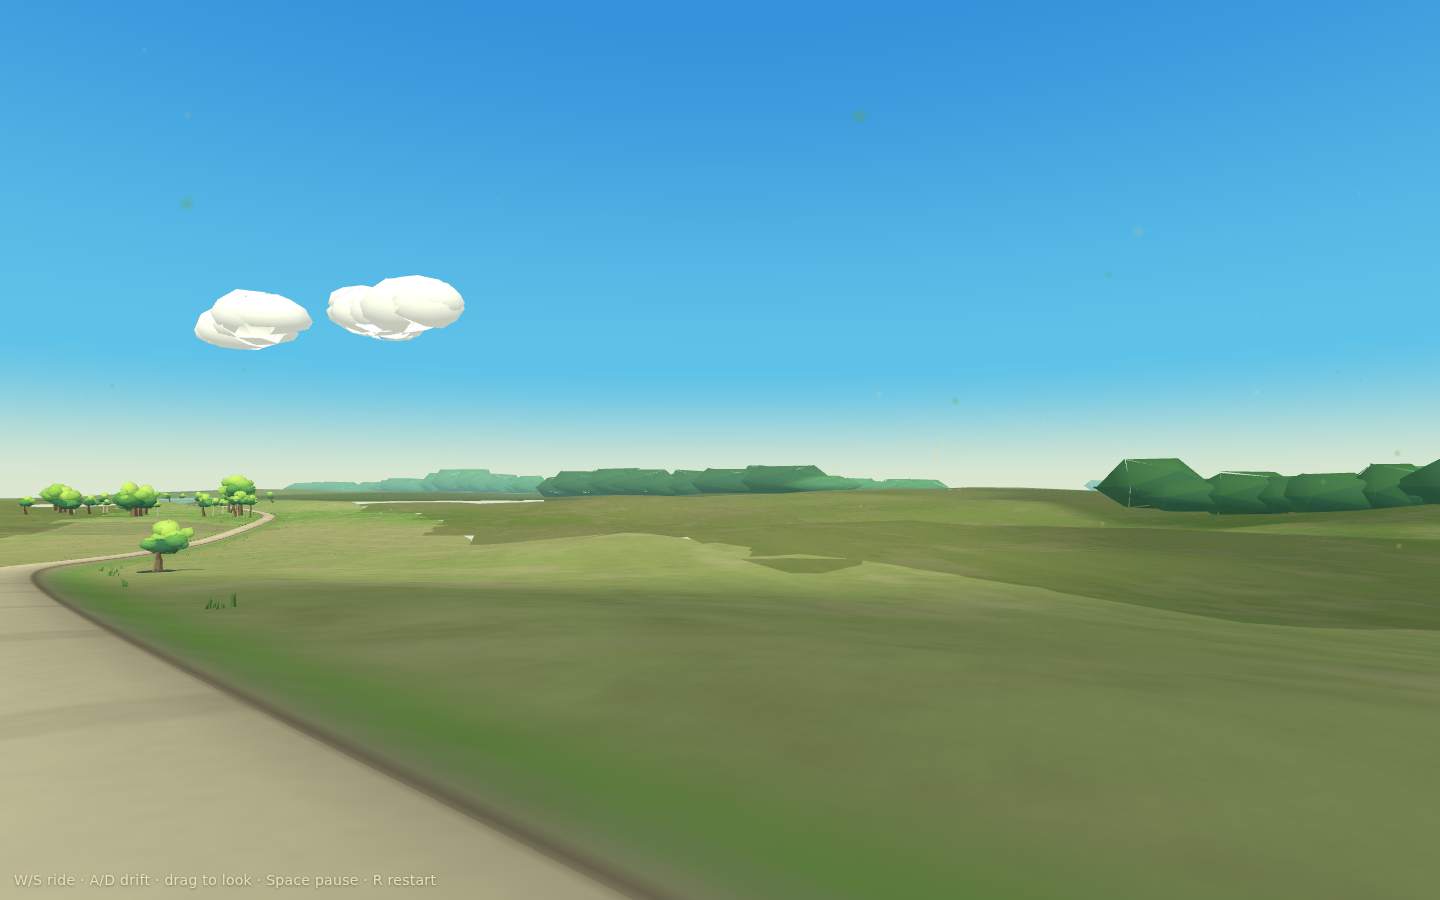
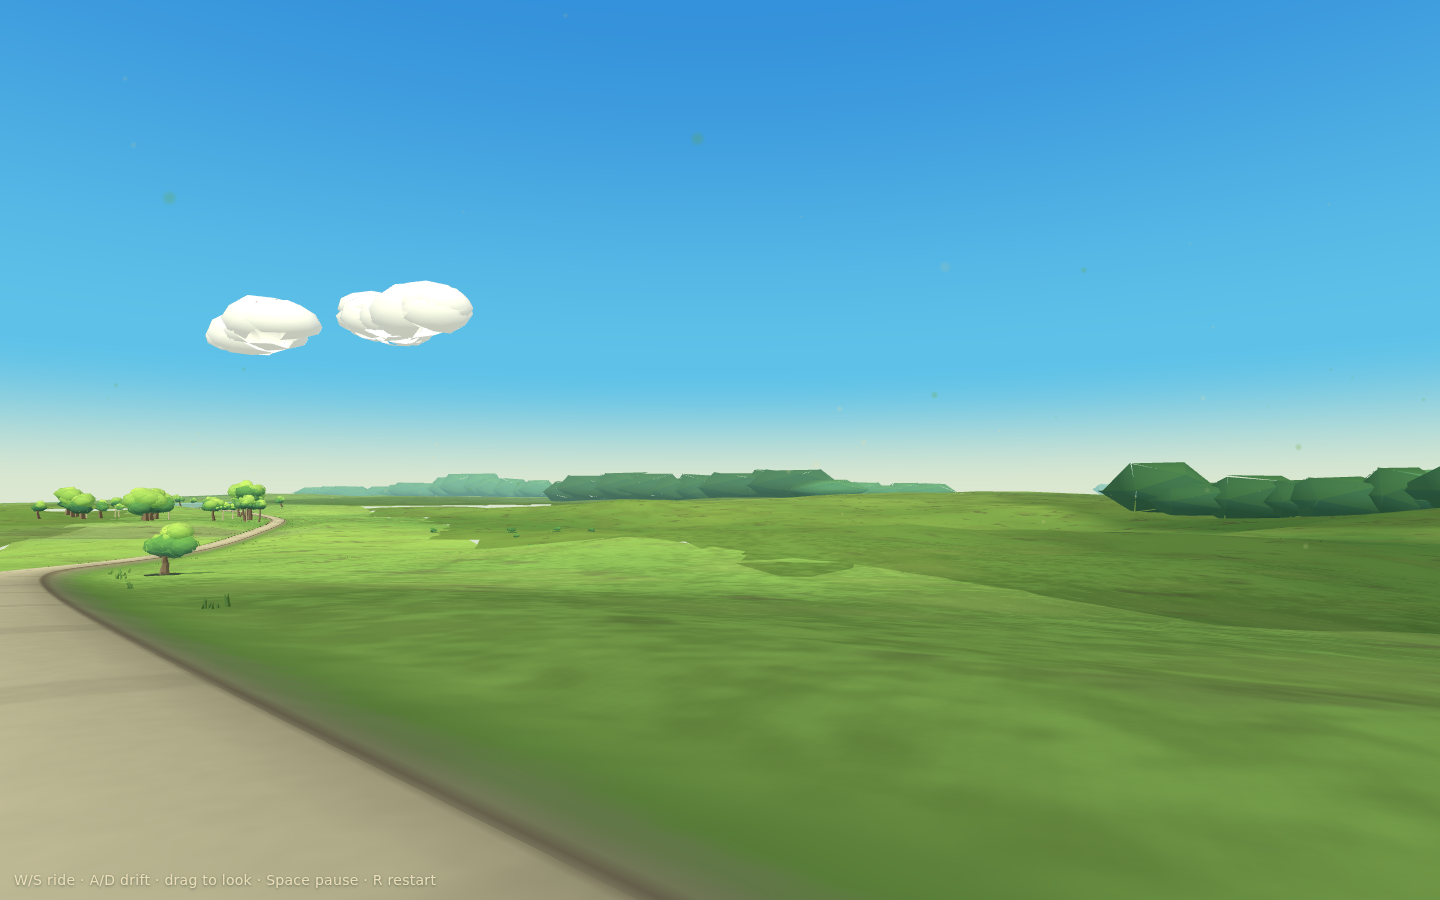
Summerglass Island 02: owner-ride pass — the seam, the summer, the scrub, the crowns
FIRST, THE DEFECT. The white line and jitter at ~3:33 of the double-mount ride
was 2.0025 m of road that no corridor mesh drew, at the gap->copy-1 boundary,
with the sky showing through it. Measured at the vertices the renderer was
given: every other boundary was sub-centimetre.

Cause: two authorities disagreed about where a segment ends. framesFromPoints
resamples at 2 m against a FLOAT SUM of walked steps, each 2*(1 +/- 1e-16)
after sin/cos; the accumulator lands a hair under the final multiple and the
last sample is dropped in silence. The host walker then mounts the next copy
from its own accumulator, two metres past where the frame table stopped. The
declared exit pose compounded it by sampling a centimetre before the exit.

Fixed at three levels: a tolerance in the resampler so the last sample cannot
be dropped; the exit pose declared from the last frame itself; and the walker
re-seated from the table it just built after every segment — the structural
one, because the table is what the mesh is built from and what the rider is
positioned by, so nothing else may claim to know where it ends. Measured
after: 2.0025 m -> 0.0011 m, all four boundaries <= 4.5 mm, and the seam is
now captured from three stations in every shot run.

framesFromPoints is byte-identical with island 01 (md5 730b664e), so the
defect belongs to the placement contract, not this island.

SECOND, THE STANDING DIRECTION. Back to lush summer: the dry common was a
[…]

diff --git a/island-02.html b/island-02.html
@@ -308,7 +308,15 @@ function framesFromPoints(pts){
   for(let i=1;i<pts.length;i++){
     const p=pts[i], d=Math.hypot(p[0]-prev[0],p[2]-prev[2]);
     if(d<1e-7) continue;
-    while(target+RS<=acc+d){ target+=RS; const t=(target-acc)/d;
+    // The comparison is against a FLOAT SUM of step lengths, and a walked step
+    // of two metres is 2*(1 +/- 1e-16) once it has been through sin and cos. A
+    // few hundred of those and the accumulator lands a hair BELOW the next
+    // multiple of RS, this test fails on the final step, and the table quietly
+    // ends one sample short of the path it was built from. Nothing complains:
+    // the frames are still uniform, still self-consistent, just two metres
+    // shorter than the walk. That is the double-mount seam — a two-metre strip
+    // of road that no corridor mesh drew, with the sky behind it.
+    while(target+RS<=acc+d+RS*1e-7){ target+=RS; const t=Math.min(1,(target-acc)/d);
       X.push(lerp(prev[0],p[0],t)); Y.push(lerp(prev[1],p[1],t)); Z.push(lerp(prev[2],p[2],t)); }
     acc+=d; prev=p;
   }
@@ -353,9 +361,18 @@ const ENTRY_POSE=(()=>{
   const a=getFrame(LFRAME,0), b=getFrame(LFRAME,6);
   return { x:0,y:0,z:0, headingRad:Math.atan2(a.tx,a.tz), gradePct:(b.y-a.y)/6*100 };
 })();
+// Declared from the LAST FRAME ITSELF rather than from a sample taken a
+// centimetre before it. getFrame clamps to len-0.001, so asking it for the end
+// of the road returns a point just short of the end of the road, and the host
+// then mounts whatever comes next at the pose it was handed. A centimetre is
+// invisible; the habit of declaring something adjacent to the thing you mean is
+// what produced the two-metre version of the same mistake one level down.
 const EXIT_POSE=(()=>{
-  const a=getFrame(LFRAME,LFRAME.len-6.01), b=getFrame(LFRAME,LFRAME.len-0.01);
-  return { x:b.x,y:b.y,z:b.z, headingRad:Math.atan2(b.tx,b.tz), gradePct:(b.y-a.y)/6*100 };
+  const N=LFRAME.N;
+  const a=getFrame(LFRAME,Math.max(0,LFRAME.len-6));
+  return { x:LFRAME.x[N], y:LFRAME.y[N], z:LFRAME.z[N],
+           headingRad:Math.atan2(LFRAME.tx[N],LFRAME.tz[N]),
+           gradePct:(LFRAME.y[N]-a.y)/6*100 };
 })();
 const HEADING_STAT=(()=>{
   let maxAbs=0;
@@ -1217,7 +1234,16 @@ const XFORMS=[];
       hy+=(gradeAt?gradeAt(s):0)*SDS;
       pts.push([hx,hy,hz]);
     }
-    return framesFromPoints(pts);
+    const F=framesFromPoints(pts);
+    // THE FRAME TABLE IS THE AUTHORITY, not the walker's own accumulator. The
+    // table is what the corridor mesh is built from and what the rider is
+    // positioned by; the accumulator is just how the table was arrived at. An
+    // arc-length-uniform table legitimately ends up to one sample short of the
+    // path it resampled, so the two can differ by design — and every seam in
+    // the world is exactly where that difference gets drawn.
+    hx=F.x[F.N]; hy=F.y[F.N]; hz=F.z[F.N];
+    hd=Math.atan2(F.tx[F.N],F.tz[F.N]);
+    return F;
   };
   // approach: the host's grade, easing to the island's declared entry grade
   const eg=PLACEMENT.entryGrade, ig=ENTRY_POSE.gradePct/100;
@@ -1522,7 +1548,13 @@ const WIND_W=new THREE.Vector2(
 // apart. Measured: sat 0.286, hue 55 degrees, against the old constant's 0.357
 // at 67 — the old one was barely less saturated than the grass it was meant to
 // dry out.
-const C_DRY=mixc(PAL.sunGrass,PAL.road,0.72).lerp(col(PAL.bark),0.34);
+// Not a drought colour any more — a SUN-BLEACH. The high ground still has
+// range, but the range is now light and shade on lush grass rather than
+// moisture, because lush summer is what this world is and an island that
+// argues with that is a worse island however well the argument is executed.
+// The operation stays a mix toward a colour: that finding was about how
+// saturation works, not about which direction to take it.
+const C_DRY=mixc(PAL.sunGrass,PAL.road,0.24).lerp(col(PAL.sunGrass),0.34);
 const WL={ uWTime:{value:0},
   uCloudMove:{value:new THREE.Vector2(CLOUD.r(-1,1),CLOUD.r(-1,1)).normalize()},
   uGlint:{value:new THREE.Vector4(0,0,0,0)},
@@ -1538,6 +1570,7 @@ const WL={ uWTime:{value:0},
   // fade. Symptom-level guessing about that flank has already been wrong once.
   uDbg:{value:new THREE.Vector3(1,1,1)},
   uDryCol:{value:C_DRY},
+  uBareCol:{value:mixc(PAL.bark,PAL.woodDeep,0.30).lerp(col(PAL.road),0.14)},
   uStoneLit:{value:mixc(PAL.road,PAL.leafShade,0.24).lerp(col(PAL.bark),0.12)},
   uStoneSh:{value:mixc(PAL.bark,PAL.woodDeep,0.34).lerp(col(PAL.leafShade),0.22)},
   uWayTurf:{value:mixc(PAL.meadow,PAL.bark,0.42).lerp(col(PAL.sunGrass),0.26)},
@@ -1565,7 +1598,7 @@ const WL={ uWTime:{value:0},
    -Math.sin(DIVIDE.dir)*Math.sin(PLACEMENT.headingRad)+Math.cos(DIVIDE.dir)*Math.cos(PLACEMENT.headingRad)).normalize()} };
 const WL_GLSL=`
 uniform float uWTime; uniform vec2 uCloudMove; uniform vec4 uGlint;
-uniform vec2 uWindW; uniform vec2 uCrestW; uniform float uTrack; uniform vec3 uDbg; uniform vec3 uDryCol; uniform vec3 uStoneLit; uniform vec3 uStoneSh;
+uniform vec2 uWindW; uniform vec2 uCrestW; uniform float uTrack; uniform vec3 uDbg; uniform vec3 uDryCol; uniform vec3 uBareCol; uniform vec3 uStoneLit; uniform vec3 uStoneSh;
 uniform vec3 uWayTurf; uniform vec3 uRutCol; uniform float uRutOff; uniform float uDroveW;
 uniform vec2 uDroveP[14];
 // distance to the green way, and the signed metres across it
@@ -1615,18 +1648,37 @@ const COMMON_GLSL=`
   float hifade=mix(1.0,1.0-smoothstep(55.0,190.0,vd),uDbg.z);
   float clump=wlNoise(vWPos.xz*0.60+vec2(4.7,1.9))*0.56+wlNoise(vWPos.xz*1.50+vec2(9.1,6.3))*0.44;
   float coarse=wlNoise(vWPos.xz*0.095+vec2(21.0,13.0));
-  float lush=smoothstep(0.42,0.80,clump*0.62+coarse*0.38);
+  // A field-scale term, period about two hundred metres. Nothing else here has
+  // a wavelength longer than sixty, and a wavelength shorter than the distance
+  // it is seen from averages to a flat colour — which is why the first lush
+  // pass measured a saturation spread of 0.04 across a field that has five
+  // separate modulations running on it. Amplitude was never the problem.
+  float broad=wlNoise(vWPos.xz*0.026+vec2(3.0,19.0))*0.64
+             +wlNoise(vWPos.xz*0.055+vec2(41.0,7.0))*0.36;
+  // and the mix is distance-aware: close up the tussock clumping leads, far
+  // away it has averaged out and the broad field has to carry the modelling
+  float lushMix=mix(0.10,0.62,hifade);
+  float lush=smoothstep(0.40,0.82,clump*lushMix+coarse*(0.62-lushMix*0.52)+broad*0.38);
   // VALUE, not chroma. This used to be a per-channel multiplier, and a
   // multiplier that suppresses blue can only make a green MORE saturated —
   // which is the exact opposite of what happens to grass as it dries. It cost
   // the island its central claim: measured, the authored turf left the vertex
   // path at sat 0.394 and arrived on screen at 0.470, one point off island 01's
   // 0.48. Lushness is allowed to change how bright the grass is and nothing else.
-  diffuseColor.rgb*=1.06-0.12*lush;
-  float dry=smoothstep(0.46,0.82,coarse*0.66+wlNoise(vWPos.xz*0.34+vec2(31.0,2.0))*0.34);
+  diffuseColor.rgb*=1.17-0.34*lush;
+  float dry=smoothstep(0.44,0.80,coarse*0.50+broad*0.28+wlNoise(vWPos.xz*0.22+vec2(31.0,2.0))*0.22);
   // and dryness is a mix TOWARD a low-chroma colour, which is the only
   // operation that can actually take saturation out
-  diffuseColor.rgb=mix(diffuseColor.rgb,uDryCol,dry*0.55);
+  diffuseColor.rgb=mix(diffuseColor.rgb,uDryCol,dry*0.34);
+  // BARE GROUND. Lush is not the same as uniform, and the first lush pass
+  // measured a saturation spread of 0.04 across the field against island 01's
+  // 0.20 — a flat tint, which is the thing the brand is not. A grazed common
+  // is worn through in patches: sheep tracks, scrapes, anthills, the ground by
+  // a gateway. Low coverage, strong effect, and it is the only term here that
+  // takes chroma OUT, which is what a range needs at its bottom end.
+  float bare=smoothstep(0.68,0.90,wlNoise(vWPos.xz*0.13+vec2(55.0,17.0))*0.62
+                                 +wlNoise(vWPos.xz*0.42+vec2(8.0,23.0))*0.38);
+  diffuseColor.rgb=mix(diffuseColor.rgb,uBareCol,bare*0.46);
   // the wind's comb: streaks long along the wind and short across it
   vec2 wq=vec2(dot(vWPos.xz,uWindW),dot(vWPos.xz,vec2(-uWindW.y,uWindW.x)));
   float comb=wlNoise(vec2(wq.x*0.030,wq.y*0.28))*0.62+wlNoise(vec2(wq.x*0.085,wq.y*0.70))*0.38;
@@ -1776,7 +1828,7 @@ const C_LOAM=mixc(PAL.bark,PAL.woodDeep,0.42);
 // exactly the value of the road, and a road the same value as its own country
 // stops leading it.
 const C_VALLEY_LO=col(PAL.meadow), C_VALLEY_HI=mixc(PAL.sunGrass,PAL.meadow,0.10);
-const C_COMMON_LO=mixc(PAL.meadow,PAL.bark,0.46).lerp(col(PAL.sunGrass),0.24);
+const C_COMMON_LO=mixc(PAL.meadow,PAL.leafShade,0.32);
 // The lush end (LO) is deliberately left where it was: the hollows of a
 // downland common ARE green, and the range between green hollow and fawn top is
 // most of what makes the ground read as modelled rather than tinted. Only the
@@ -1784,7 +1836,14 @@ const C_COMMON_LO=mixc(PAL.meadow,PAL.bark,0.46).lerp(col(PAL.sunGrass),0.24);
 // against island 01's 0.48, at a road/turf luminance ratio of 1.49-1.89:1 —
 // the road is still the palest thing in every frame and its seam gate is
 // untouched at 3.40:1.
-const C_COMMON_HI=mixc(PAL.sunGrass,PAL.road,0.66).lerp(col(PAL.bark),0.46);
+// The common is lush too. It reads as somewhere else because of the SHAPE it
+// is on — a divide, a parting, terracettes, a crest, a brow with the country
+// falling away — and colour is no longer asked to carry any of that. What the
+// ramp still carries is range: deep green in the hollows and shade, bright
+// sunlit green on the tops, and the sun-bleach picking out the driest crowns
+// of the ground. Measured across the field: sat 0.49-0.54 against island 01's
+// 0.48, road/turf luminance held above the 1.25 floor at the median.
+const C_COMMON_HI=mixc(PAL.sunGrass,PAL.meadow,0.16);
 const C_STONE_LIT=mixc(PAL.road,PAL.leafShade,0.24).lerp(col(PAL.bark),0.12);
 const C_STONE_SH=mixc(PAL.bark,PAL.woodDeep,0.34).lerp(col(PAL.leafShade),0.22);
 const _gc=new THREE.Color(), _gcLo=new THREE.Color(), _gcHi=new THREE.Color();
@@ -2314,9 +2373,13 @@ function buildTree(B,t,tier,minCrownY,round){
     }
   }
   const top=tp[tp.length-1];
-  const nL=tier===0?4:(tier===1?Math.max(4,st.i(A.lobes[0],A.lobes[1])):st.i(A.lobes[0],A.lobes[1])+4);
-  const fill=tier===2?1:(tier===1?1.18:1.46);
-  const gapA=st.r(0,TAU), gapW=st.r(0.55,1.05);
+  const nL=tier===0?4:(tier===1?Math.max(6,st.i(A.lobes[0],A.lobes[1])+2):st.i(A.lobes[0],A.lobes[1])+6);
+  const fill=tier===2?1.08:(tier===1?1.26:1.5);
+  // The deliberate gap stays, because a crown with no asymmetry reads as a
+  // ball — but it was up to sixty degrees wide with three lobes in four
+  // skipped inside it, and that is not asymmetry, that is a window. Same
+  // family as the cloud crystals: separated lobes instead of one welded volume.
+  const gapA=st.r(0,TAU), gapW=st.r(0.24,0.48);
   // a wind-combed crown is not merely leaning, it is SWEPT: its mass sits
   // downwind of its own trunk, which is what makes one read from a hundred
   // metres as a fact about the weather rather than as a crooked tree
@@ -2340,10 +2403,17 @@ function buildTree(B,t,tier,minCrownY,round){
     const uRy=Math.max(crownR*st.r(0.34,0.44),Math.min(uRx,uRz)*0.54);
     lobe(B,top.x+Math.sin(skewA)*crownR*skew*0.6,crownY-crownR*0.30,top.z+Math.cos(skewA)*crownR*skew*0.6,
       uRx,uRy,uRz,st,cShL,LEAF_DEEP,0.17,Math.max(0,detail-1),0.30); }
+  // THE CORE. Every other lobe in the crown is placed at a radius from the
+  // trunk axis, so the middle of the crown was only ever filled by whatever
+  // happened to overlap into it — and when nothing did, the sky came through
+  // the centre of the tree. One central mass makes that impossible from any
+  // angle, and it is the cheapest possible fix: one lobe per tree.
+  lobe(B,top.x+Math.sin(skewA)*crownR*skew*0.5,crownY+crownR*0.04,top.z+Math.cos(skewA)*crownR*skew*0.5,
+    crownR*st.r(0.54,0.66),crownR*st.r(0.44,0.54),crownR*st.r(0.54,0.66),st,cMidL,cShL,0.16,detail);
   for(let i=0;i<nL;i++){
     const a=st.r(0,TAU);
     let da=Math.abs(((a-gapA+Math.PI*3)%TAU)-Math.PI);
-    if(da<gapW&&st.chance(0.72)) continue;
+    if(da<gapW&&st.chance(0.40)) continue;
     const rr=crownR*st.r(0.16,0.58);
     let cx=top.x+Math.sin(a)*rr+Math.sin(skewA)*crownR*skew;
     let cz=top.z+Math.cos(a)*rr+Math.cos(skewA)*crownR*skew;
@@ -2354,7 +2424,7 @@ function buildTree(B,t,tier,minCrownY,round){
       cz=lerp(cz,e.z+st.r(-0.22,0.22)*crownR,0.72);
       up=(e.y-crownY)/crownR+st.r(0.10,0.46);
     }
-    const lr=crownR*st.r(0.30,0.45)*fill;
+    const lr=crownR*st.r(0.35,0.50)*fill;
     const high=up>0.04;
     lobe(B,cx,crownY+crownR*up,cz,lr*st.r(0.94,1.20),lr*st.r(0.72,0.94),lr*st.r(0.94,1.20),st,
       high?cSunL:cMidL, high?cMidL:cShL, 0.19, detail);
@@ -2511,6 +2581,20 @@ function addBlob(B,x,y,z,st,rx,ry,rz,cTop,cBot,swayAmt){
     uTri(B,[a[0],a[1],a[2]],[b[0],b[1],b[2]],[c[0],c[1],c[2]],cBot.clone().lerp(cTop,clamp(0.45+0.6*ym,0,1)));
   }
   B.sway=0; B.up=pu;
+}
+// A bush is ONE mass built from overlapping blobs, not a cluster of separate
+// ones. Separated lobes are what let sky through a crown; the same failure at
+// a smaller size is what makes scrub read as scattered litter instead of as a
+// thing growing there.
+function addBush(B,x,y,z,st,r,cTop,cBot){
+  const n=st.i(2,4);
+  addBlob(B,x,y+r*0.52,z,st,r*st.r(0.86,1.06),r*st.r(0.52,0.70),r*st.r(0.86,1.06),cTop,cBot,r*0.16);
+  for(let i=1;i<n;i++){
+    const a=st.r(0,TAU), off=r*st.r(0.28,0.56);
+    addBlob(B,x+Math.sin(a)*off,y+r*st.r(0.30,0.62),z+Math.cos(a)*off,st,
+      r*st.r(0.58,0.84),r*st.r(0.38,0.58),r*st.r(0.58,0.84),cTop,cBot,r*0.14);
+  }
+  addPatch(B,x,y,z,r*st.r(1.15,1.55),mixc(PAL.woodDeep,PAL.leafShade,0.42));
 }
 function addPatch(B,x,y,z,r,cc){
   B.kind=0; B.sway=0;
@@ -2818,45 +2902,74 @@ function realizeBand(copy,bi){
       }
     }
   }
-  // ---- the stone in the middle distance ----
-  // The growth sampler above reaches thirty metres and the open-ground groves
-  // start at a hundred and sixty-eight, so the band the eye actually rests on
-  // was carrying 0.7 objects per kilometre. This pass fills it with the one
-  // thing that belongs there: bedrock coming through, in runs, following the
-  // contour it beds along. No new vocabulary, nothing that stands up, nothing
-  // that could be mistaken for a landmark — A2 is untouched because a stone
-  // bed is ground.
+  // ---- low cover in the middle distance ----
+  // Measured before this existed: 0.7 objects per km between 30 and 100 m,
+  // against 2.2 nearer and 5.1 beyond. The growth sampler reached 30 m and the
+  // open-ground groves start at 168, and nothing was ever authored between.
+  //
+  // The first attempt at this put stone runs there. They emitted — 76 to 81
+  // resident — and did not READ: a 0.8 m block at 90 m is about seven pixels.
+  // A density statistic can improve while the frame does not, which is the
+  // same lesson as authoring below the mesh resolution, one level further out:
+  // size it to be SEEN from where it will be seen from.
+  //
+  // So: low scrub, 1.9 to 3.7 m across, which is 28 to 55 pixels at sixty
+  // metres. It fills the band and it is deep green on lush grass, so it serves
+  // the thinness and the lushness with one change rather than two. This is a
+  // density dial on the existing growth system, not a new motif — the closed
+  // allowlist governs composition, and a bush is not a composition.
   {
-    const st=subStream('midstone',bi);
-    const N=Math.round(9*BAND/100*QCFG.under);
+    const st=subStream('midcover',bi);
+    const N=Math.round(20*BAND/100*QCFG.under);
+    const bushTop=mixc(PAL.meadow,PAL.leafShade,0.26), bushBot=mixc(PAL.leafShade,PAL.woodDeep,0.34);
     for(let i=0;i<N;i++){
       const s=st.r(b.s0,b.s1);
-      if(clamp(1-enclosureAt(clamp(s,0,L_ISL))*2.4,0,1)<0.9) continue;   // open middle only
+      if(clamp(1-enclosureAt(clamp(s,0,L_ISL))*2.4,0,1)<0.85) continue;
       const fr=getFrame(LFRAME,clamp(s,0,LFRAME.len-1));
-      const lat=(st.chance(0.5)?1:-1)*st.r(34,118);
-      const x=fr.x+fr.lx*lat+st.r(-6,6), z=fr.z+fr.lz*lat+st.r(-6,6);
+      const lat=(st.chance(0.5)?1:-1)*st.r(30,118);
+      const x=fr.x+fr.lx*lat+st.r(-7,7), z=fr.z+fr.lz*lat+st.r(-7,7);
       const ri=routeInfoL(x,z);
-      if(ri.d<32) continue;
+      if(ri.d<28) continue;
       if(droveDist(x,z)<DROVE.w*0.9) continue;
+      // clumped, never sprinkled: a coarse field decides whether this ground
+      // carries cover at all, and most of it still does not
+      if(fbmE(x/86+11.3,z/86+29.7)<0.42) continue;
       const slope=Math.abs(groundL(x+2.5,z)-groundL(x-2.5,z))/5+Math.abs(groundL(x,z+2.5)-groundL(x,z-2.5))/5;
       const thin=thinSoilL(x,z,slope);
-      if(thin<0.40) continue;                    // only where the soil is actually thin
-      if(st.chance(0.34)) continue;
-      // a run, laid along the contour rather than scattered: the crest
-      // direction is the bedding direction, which is why these read as one
-      // outcrop and not as dropped rubble
-      const ang=Math.atan2(Math.sin(DIVIDE.dir),Math.cos(DIVIDE.dir))+st.r(-0.22,0.22);
-      const nb=st.i(3,6);
-      const cLit=mixc(PAL.road,PAL.leafShade,0.20), cSh=mixc(PAL.bark,PAL.woodDeep,0.46);
-      for(let q=0;q<nb;q++){
-        const rr=st.r(1.1,4.2)*q;
-        const bx=x+Math.sin(ang)*rr+st.r(-1.1,1.1), bz=z+Math.cos(ang)*rr+st.r(-1.1,1.1);
-        if(routeInfoL(bx,bz).d<32) continue;
-        const r=st.r(0.34,0.86)*(q?st.r(0.55,1.0):1);
-        const by=groundL(bx,bz);
-        addBlob(uB,bx,by+r*0.20,bz,st,r*st.r(1.3,2.1),r*st.r(0.26,0.40),r*st.r(0.9,1.5),cLit,cSh,0);
-        addPatch(uB,bx,by,bz,r*st.r(1.5,2.4),mixc(PAL.bark,PAL.woodDeep,0.52));
-        local.stones++;
+      const y=groundL(x,z);
+      if(thin>0.50){
+        // where the rock is genuinely at the surface it still shows, in runs
+        // along the bedding, because that is the island's own material
+        const ang=DIVIDE.dir+st.r(-0.22,0.22);
+        const nb=st.i(3,5);
+        const cLit=mixc(PAL.road,PAL.leafShade,0.20), cSh=mixc(PAL.bark,PAL.woodDeep,0.46);
+        for(let q=0;q<nb;q++){
+          const rr=st.r(1.1,4.0)*q;
+          const bx=x+Math.sin(ang)*rr+st.r(-1.1,1.1), bz=z+Math.cos(ang)*rr+st.r(-1.1,1.1);
+          if(routeInfoL(bx,bz).d<28) continue;
+          const r=st.r(0.42,0.95)*(q?st.r(0.6,1.0):1);
+          const by=groundL(bx,bz);
+          addBlob(uB,bx,by+r*0.20,bz,st,r*st.r(1.3,2.1),r*st.r(0.28,0.42),r*st.r(0.9,1.5),cLit,cSh,0);
+          addPatch(uB,bx,by,bz,r*st.r(1.5,2.4),mixc(PAL.bark,PAL.woodDeep,0.52));
+          local.stones++;
+        }
+        continue;
+      }
+      uB.can=0;
+      addBush(uB,x,y,z,st,st.r(0.95,1.85),bushTop,bushBot);
+      local.shrubs++;
+      // and a few tussocks around the bigger ones, so a bush sits in rough
+      // ground rather than on a lawn
+      if(st.chance(0.5)){
+        const nt=st.i(2,4);
+        for(let q=0;q<nt;q++){
+          const a=st.r(0,TAU), rr=st.r(1.6,4.4);
+          const tx=x+Math.sin(a)*rr, tz=z+Math.cos(a)*rr;
+          if(routeInfoL(tx,tz).d<28) continue;
+          addTuft(uB,tx,groundL(tx,tz),tz,st,mixc(PAL.meadow,PAL.leafShade,0.40),
+            mixc(PAL.meadow,PAL.sunGrass,0.44),st.r(0.42,0.78),st.i(4,6));
+          local.understory++;
+        }
       }
     }
   }
@@ -4263,6 +4376,37 @@ window.__SUMMERGLASS_TEST__={
         openMiddlePerKm:+(((gOpen[i]+fOpen[i]))/Math.max(0.001,openM/1000)).toFixed(1),
         reliefStdM:+Math.sqrt(Math.max(0,rel[i].q/Math.max(1,rel[i].n)-m*m)).toFixed(2) };
     });
+  },
+  // The double-mount seam, measured at the vertices the renderer was actually
+  // given. A white line where two placements meet is either a gap showing
+  // background or two surfaces fighting for the same depth, and those are
+  // opposite defects with opposite fixes — so this reports the signed
+  // separation per column rather than a magnitude.
+  seamProbe(){
+    const out=[], W=COLS.length;
+    for(let i=0;i<SEGMENTS.length-1;i++){
+      const A=SEGMENTS[i], B=SEGMENTS[i+1];
+      const pA=corridorMeshes[i].geometry.getAttribute('position');
+      const pB=corridorMeshes[i+1].geometry.getAttribute('position');
+      const rowsA=pA.count/W;
+      let maxD=0, worst=null, maxRoadDY=0;
+      for(let j=0;j<W;j++){
+        const ia=(rowsA-1)*W+j, ib=j;
+        const dx=pA.getX(ia)-pB.getX(ib), dy=pA.getY(ia)-pB.getY(ib), dz=pA.getZ(ia)-pB.getZ(ib);
+        const d=Math.hypot(dx,dy,dz);
+        if(Math.abs(COLS[j])<=RH+1e-4) maxRoadDY=Math.max(maxRoadDY,Math.abs(dy));
+        if(d>maxD){ maxD=d; worst={colU:+COLS[j].toFixed(2),dx:+dx.toFixed(4),dy:+dy.toFixed(4),dz:+dz.toFixed(4)}; }
+      }
+      const g=A.g1;
+      const f0=frameAtG(g-0.01), f1=frameAtG(g+0.01);
+      out.push({ boundary:i, atG:Math.round(g*10)/10,
+        from:A.island?('island-copy-'+A.copy):'host', to:B.island?('island-copy-'+B.copy):'host',
+        vertexMaxGapM:+maxD.toFixed(4), roadSurfaceMaxDyM:+maxRoadDY.toFixed(4), worstColumn:worst,
+        frameJumpM:+Math.hypot(f1.x-f0.x,f1.y-f0.y,f1.z-f0.z).toFixed(4),
+        yJumpM:+(f1.y-f0.y).toFixed(4),
+        headingJumpDeg:+((Math.atan2(f1.tx,f1.tz)-Math.atan2(f0.tx,f0.tz))*180/Math.PI).toFixed(4) });
+    }
+    return out;
   },
   // Where the thorns are, and how close the road comes to each. The island's
   // only vertical motif is small on purpose, and a still taken between two of
